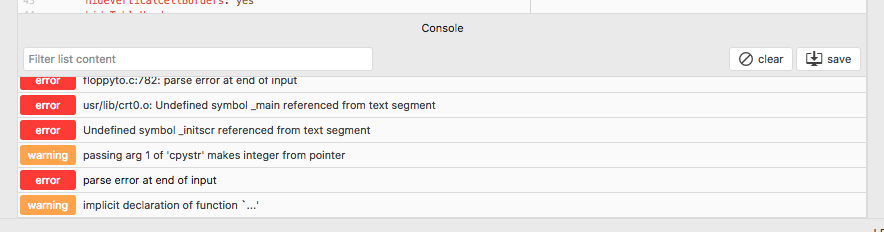
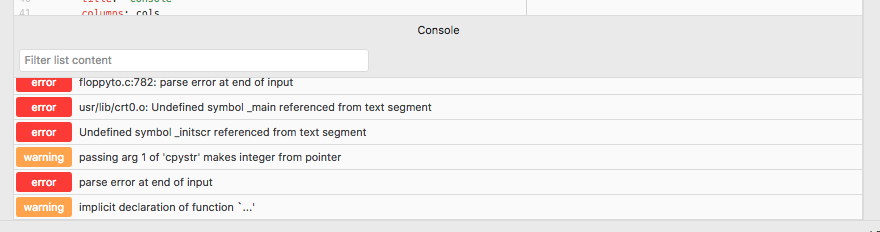
Replaced image

diff --git a/README.md b/README.md
@@ -164,6 +164,8 @@ The result looks as follows
   <img src="https://github.com/dmlux/flexible-panel/blob/master/screenshots/example-1.png?raw=true">
 </p>
 
+If you want to develop a Linter like package the following configuration may be the right
+
 ```coffeescript
   consumeFlexiblePanels: (flexiblePanelsManager) ->
     # specify the columns for the flexible panel view
@@ -190,7 +192,8 @@ The result looks as follows
       labels: lbls
       hideVerticalCellBorders: yes
       hideTableHead: yes
-      #useMonospaceFont: yes
+      addSaveButton: no
+      addClearButton: no
 
     # resolve promise to actual view element
     promise.then (view) =>
